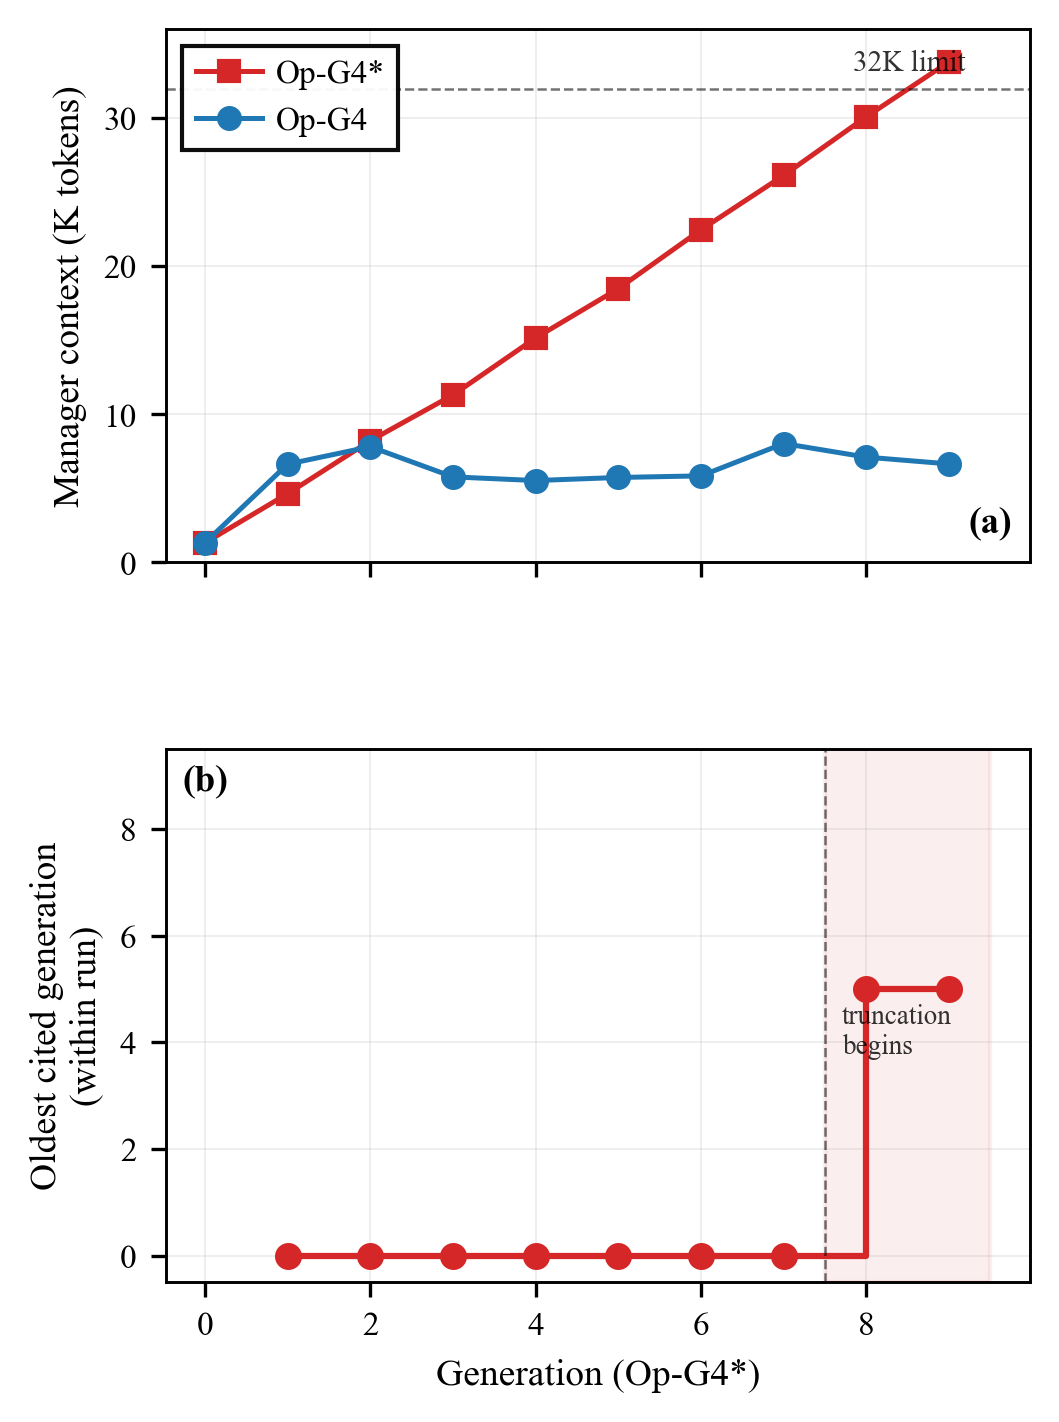
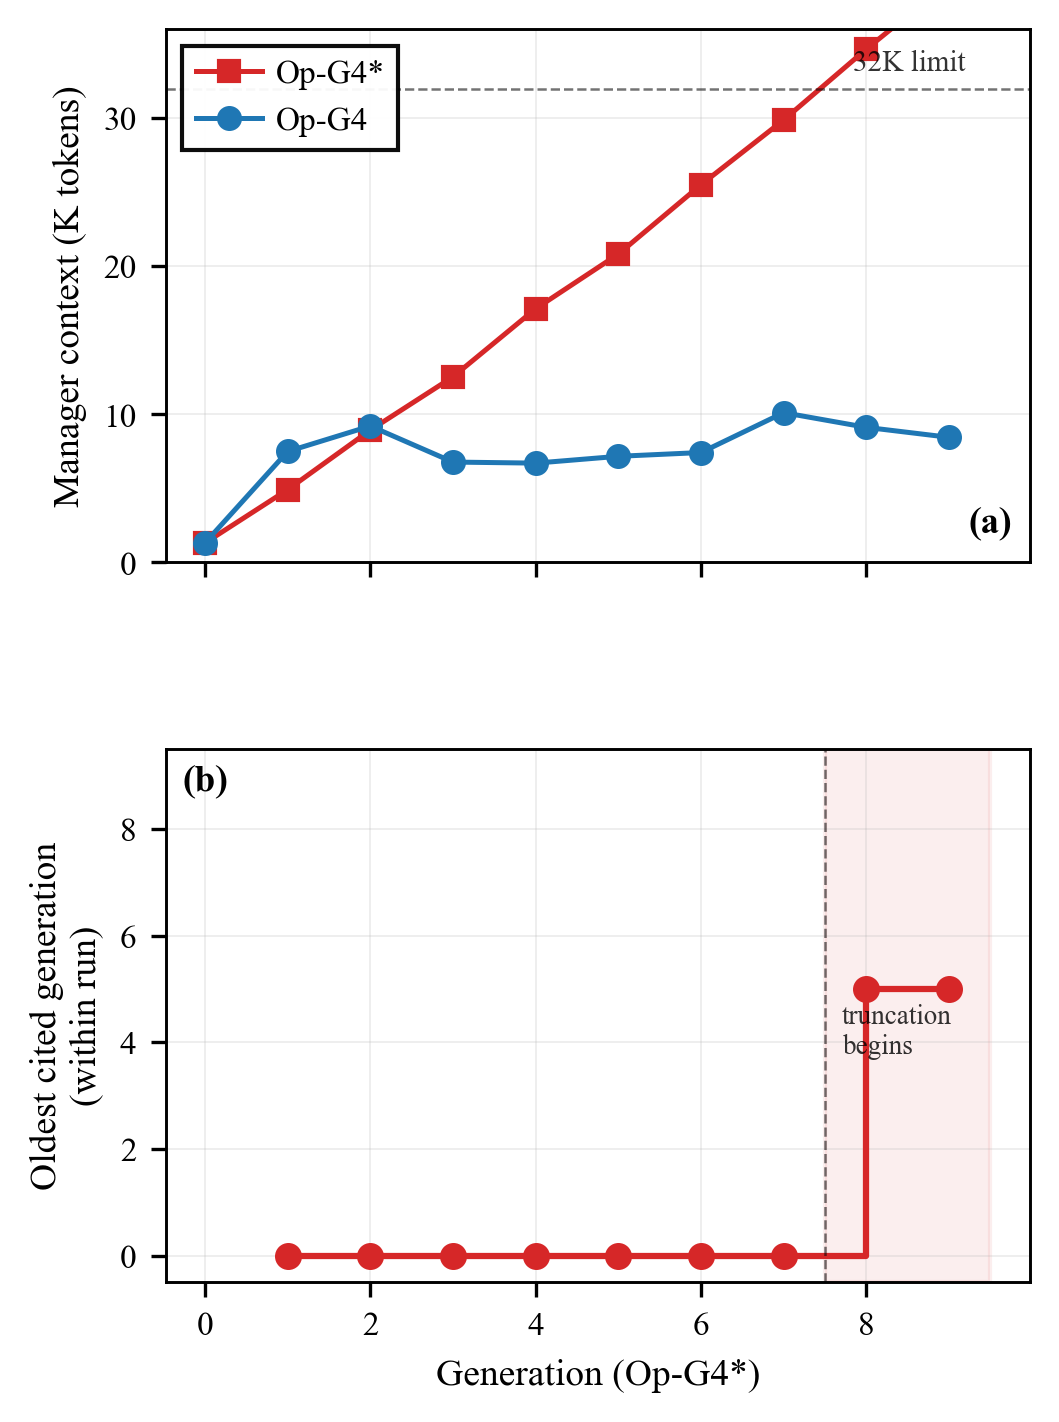
paper: use actual Gemma tokenizer counts for context growth figure
Previous context_growth.json used chars/4 approximation, causing gen 8
to appear below 32K when actual token count is ~34.7K. Recomputed with
the Gemma tokenizer; both panels of fig5 now agree: Op-G4* crosses the
32K limit at gen 8, consistent with the truncation effect in panel (b).
Also update body text: limit crossed at gen 8, not at run end.

Changed region(s): [[0.2181, 0.2475, 0.9037, 0.3713], [0.4674, 0.0, 0.8414, 0.2475], [0.8725, 0.0309, 0.9037, 0.0619]]

diff --git a/paper/main.tex b/paper/main.tex
@@ -222,7 +222,7 @@ A counterexample sharpens the lesson. The ML-G4 row (Mistral Large manager paire
 \subsection{Effect of consolidation}
 \label{sec:consolidation-ablation}
 
-The bounded knowledge state of \S\ref{sec:consolidation} is enabled by default. To isolate its impact on final score we ran three with-versus-without pairs across the three manager tiers (Op-G4, So-G4, ML-ML); the eval-set SE deltas between paired rows in Table~\ref{tab:results} are 0.018, 0.009, and 0.023\,bps/Hz, with consolidation-enabled runs scoring higher in all three cases. All deltas fall within the within-run noise band ($\sim$0.002--0.025\,bps/Hz), so neither a consistent benefit nor a consistent cost can be claimed from a single run per cell. Its principal effect is on \emph{tractability}: Fig.~\ref{fig:consolidation-ablation}(a) compares the manager's input-context size per generation for two Op-G4 runs that differ only in whether consolidation is enabled. Without consolidation the context crosses the 32\,K limit configured on the workstation vLLM by the end of a 10-generation run; with consolidation it stays bounded between 5\,K and 8\,K tokens, which is what makes the longer-horizon runs reported elsewhere in this section feasible. The consequences of exceeding the limit are visible in Fig.~\ref{fig:consolidation-ablation}(b): the oldest workspace cited in the manager's idea proposals for Op-G4* drops abruptly at generation~8, when context truncation begins. Prior to that point the manager consistently references the best workspace found at the start of the run; afterwards it can only cite recent workspaces, having lost the earlier history to silent truncation.
+The bounded knowledge state of \S\ref{sec:consolidation} is enabled by default. To isolate its impact on final score we ran three with-versus-without pairs across the three manager tiers (Op-G4, So-G4, ML-ML); the eval-set SE deltas between paired rows in Table~\ref{tab:results} are 0.018, 0.009, and 0.023\,bps/Hz, with consolidation-enabled runs scoring higher in all three cases. All deltas fall within the within-run noise band ($\sim$0.002--0.025\,bps/Hz), so neither a consistent benefit nor a consistent cost can be claimed from a single run per cell. Its principal effect is on \emph{tractability}: Fig.~\ref{fig:consolidation-ablation}(a) compares the manager's input-context size per generation for two Op-G4 runs that differ only in whether consolidation is enabled. Without consolidation the context crosses the 32\,K limit configured on the workstation vLLM at generation~8 of a 10-generation run; with consolidation it stays bounded between 5\,K and 10\,K tokens, which is what makes the longer-horizon runs reported elsewhere in this section feasible. The consequences of exceeding the limit are visible in Fig.~\ref{fig:consolidation-ablation}(b): the oldest workspace cited in the manager's idea proposals for Op-G4* drops abruptly at generation~8, when context truncation begins. Prior to that point the manager consistently references the best workspace found at the start of the run; afterwards it can only cite recent workspaces, having lost the earlier history to silent truncation.
 
 \begin{figure}[t]
 \centering